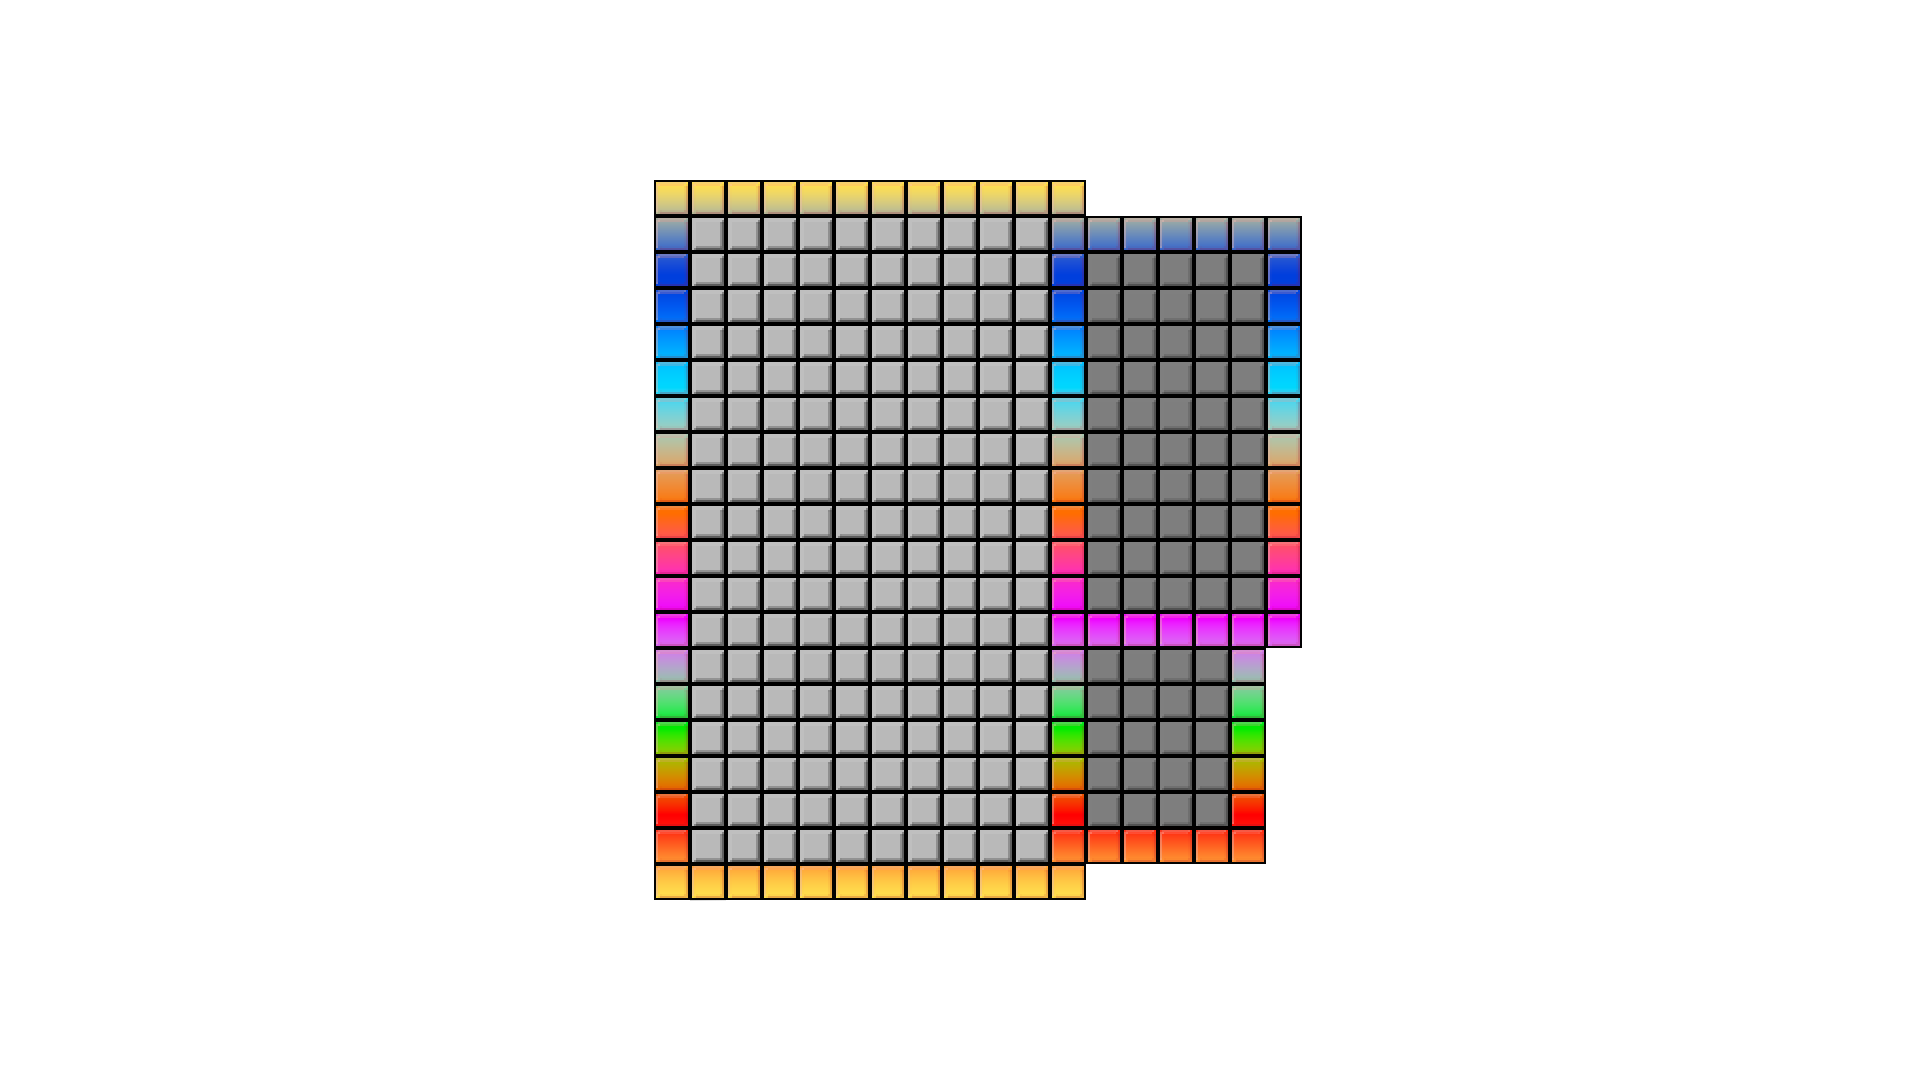
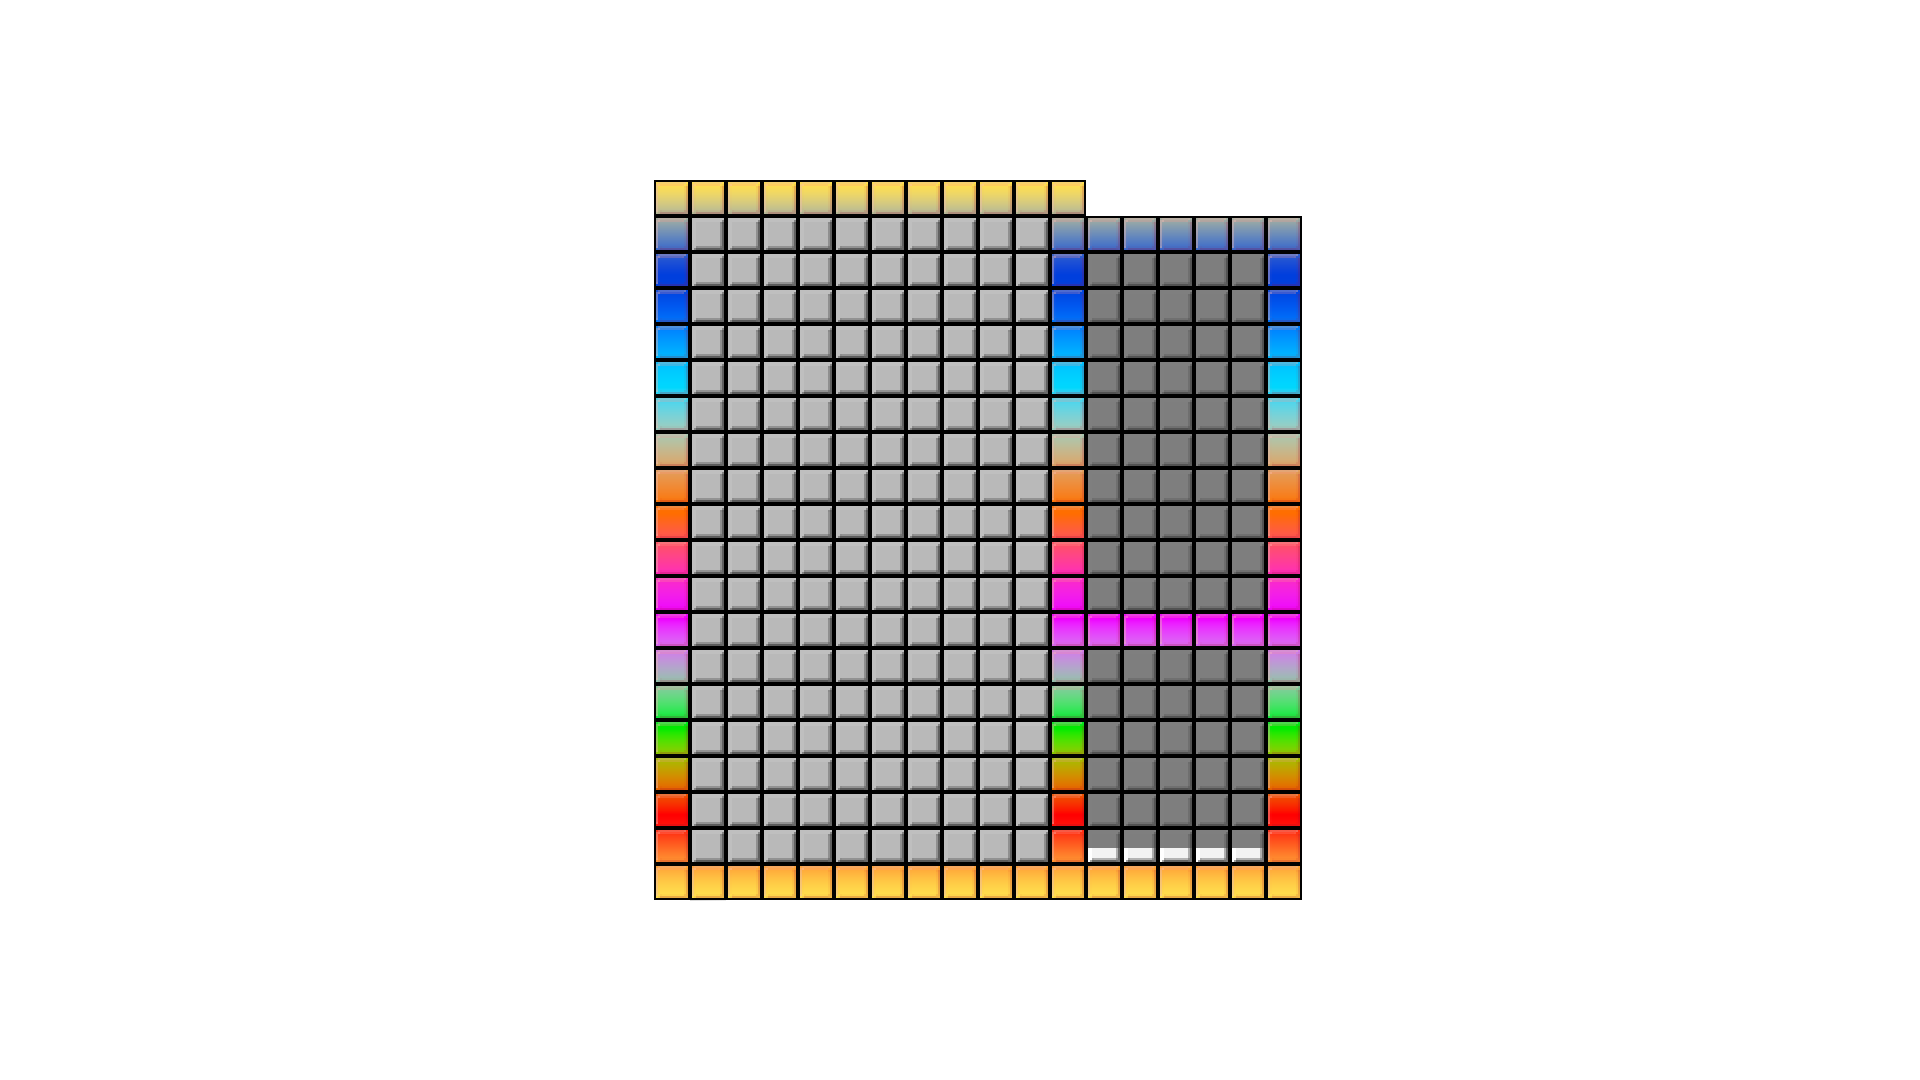
Game state finished

Changed region(s): [[0.5625, 0.5806, 0.6875, 0.8556]]

diff --git a/Tetris/GameOverState.cpp b/Tetris/GameOverState.cpp
@@ -16,37 +16,51 @@ GameOverState::~GameOverState() {}
 void GameOverState::Init() {
     m_context->m_assets->LoadFont("Start_Menu_Font", "assets/Computerfont.ttf");
 
+    // Load the background Texture
+    m_context->m_assets->LoadTexture("Background", "assets/Background.png");
+
+    // Get the texture and set it to be repeated
+    sf::Texture& backgroundTexture = m_context->m_assets->GetTexture("Background");
+    backgroundTexture.setRepeated(true);
+
+    // Create the background sprite
+    m_backgroundSprite.setTexture(backgroundTexture);
+    // Set the texture rect to cover the whole screen
+    m_backgroundSprite.setTextureRect(sf::IntRect(0, 0, m_context->m_window->getSize().x, m_context->m_window->getSize().y));
+
+
     //Title
     m_gameTitle.setFont(m_context->m_assets->GetFont("Start_Menu_Font"));
     m_gameTitle.setString("Game Over");
-    m_gameTitle.setCharacterSize(60);
+    m_gameTitle.setCharacterSize(90);
     m_gameTitle.setOrigin(m_gameTitle.getLocalBounds().width / 2.f, m_gameTitle.getLocalBounds().height / 2.f);
-    m_gameTitle.setPosition(m_context->m_window->getSize().x / 2.f, m_context->m_window->getSize().y / 2 - 100.f);
+    m_gameTitle.setPosition(m_context->m_window->getSize().x / 2.f, m_context->m_window->getSize().y / 2 * 0.65);
 
     //Highscore
     m_HighScoreText.setFont(m_context->m_assets->GetFont("Start_Menu_Font"));
     m_HighScoreText.setString("Highscore: " + std::to_string(m_HighScore));
-    m_HighScoreText.setCharacterSize(40);
+    m_HighScoreText.setCharacterSize(60);
     m_HighScoreText.setOrigin(m_HighScoreText.getLocalBounds().width / 2, m_HighScoreText.getLocalBounds().height / 2);
-    m_HighScoreText.setPosition(m_context->m_window->getSize().x / 2, m_context->m_window->getSize().y / 2 - 50.f);
+    m_HighScoreText.setPosition(m_context->m_window->getSize().x / 2, m_context->m_window->getSize().y / 2 * 1);
 
     //Try Again Button
     m_retryButton.setFont(m_context->m_assets->GetFont("Start_Menu_Font"));
     m_retryButton.setString("Try Again");
     m_retryButton.setCharacterSize(40);
     m_retryButton.setOrigin(m_retryButton.getLocalBounds().width / 2, m_retryButton.getLocalBounds().height / 2);
-    m_retryButton.setPosition(m_context->m_window->getSize().x / 2, m_context->m_window->getSize().y / 2);
+    m_retryButton.setPosition(m_context->m_window->getSize().x / 2, m_context->m_window->getSize().y / 2 * 1.35);
 
     //Main Menu Button
     m_mainMenuButton.setFont(m_context->m_assets->GetFont("Start_Menu_Font"));
     m_mainMenuButton.setString("Main Menu");
     m_mainMenuButton.setCharacterSize(40);
     m_mainMenuButton.setOrigin(m_mainMenuButton.getLocalBounds().width / 2, m_mainMenuButton.getLocalBounds().height / 2);
-    m_mainMenuButton.setPosition(m_context->m_window->getSize().x / 2, m_context->m_window->getSize().y / 2 + 50.f);
+    m_mainMenuButton.setPosition(m_context->m_window->getSize().x / 2, m_context->m_window->getSize().y / 2 * 1.45);
 }
 
 void GameOverState::Draw() {
     m_context->m_window->clear(sf::Color::Blue);
+    m_context->m_window->draw(m_backgroundSprite);
     m_context->m_window->draw(m_gameTitle);
     m_context->m_window->draw(m_HighScoreText);
     m_context->m_window->draw(m_retryButton);
@@ -84,6 +98,7 @@ void GameOverState::ProcessInput() {
 }
 
 void GameOverState::Update(const sf::Time& deltaTime) {
+
     if (m_isRetryButtonSelected) {
         m_retryButton.setFillColor(sf::Color::Yellow);
         m_mainMenuButton.setFillColor(sf::Color::White);
@@ -101,4 +116,17 @@ void GameOverState::Update(const sf::Time& deltaTime) {
         m_context->m_states->PopAll();
         m_context->m_states->Add(std::make_unique<StartMenuState>(m_context, m_networkManager), true);
     }
+
+    // Add code to move the background
+    static float backgroundX = 0.f; // These static variables will keep their values between updates
+    static float backgroundY = 0.f;
+    const float backgroundSpeedX = 50.f; // Speed of the background movement along X-axis
+    const float backgroundSpeedY = 25.f;  // Speed of the background movement along Y-axis
+
+    // Calculate new positions based on deltaTime (might get an overflow if the game runs for a long time)
+    backgroundX += backgroundSpeedX * deltaTime.asSeconds();
+    backgroundY += backgroundSpeedY * deltaTime.asSeconds();
+
+    m_backgroundSprite.setTextureRect(sf::IntRect(static_cast<int>(backgroundX), static_cast<int>(backgroundY), m_context->m_window->getSize().x, m_context->m_window->getSize().y));
+
 }

diff --git a/Tetris/GamePlayState.cpp b/Tetris/GamePlayState.cpp
@@ -45,10 +45,12 @@ void GamePlayState::createTetromino() {
         this->lastHighScore = m_HighScore.getScore();
         m_context->m_states->Add(std::make_unique<GameOverState>(m_context, m_networkManager, this->lastHighScore), false);
         m_HighScore.reset();
+        Xvariation = -1;
+        Yvariation = -1;
     }
     mID = getRandomNumber(7);
     m_preview.reset(new Tetromino{ mTexture, mID });
-    m_preview->setPosition(sf::Vector2i{ 11, 12 });
+    m_preview->setPosition(sf::Vector2i{ 12, 13 });
 }
 
 

diff --git a/Tetris/GameOverState.h b/Tetris/GameOverState.h
@@ -22,6 +22,8 @@ class GameOverState : public State
 		sf::Text m_HighScoreText;
 		sf::Text m_retryButton;
 		sf::Text m_mainMenuButton;
+		
+		sf::Sprite m_backgroundSprite;
 
 		bool m_isRetryButtonSelected;
 		bool m_isRetryButtonPressed;
@@ -40,6 +42,7 @@ class GameOverState : public State
 		void ProcessInput() override;
 		void Update(const sf::Time& deltaTime) override;
 		void Draw() override;
+
 };
 
 #endif
